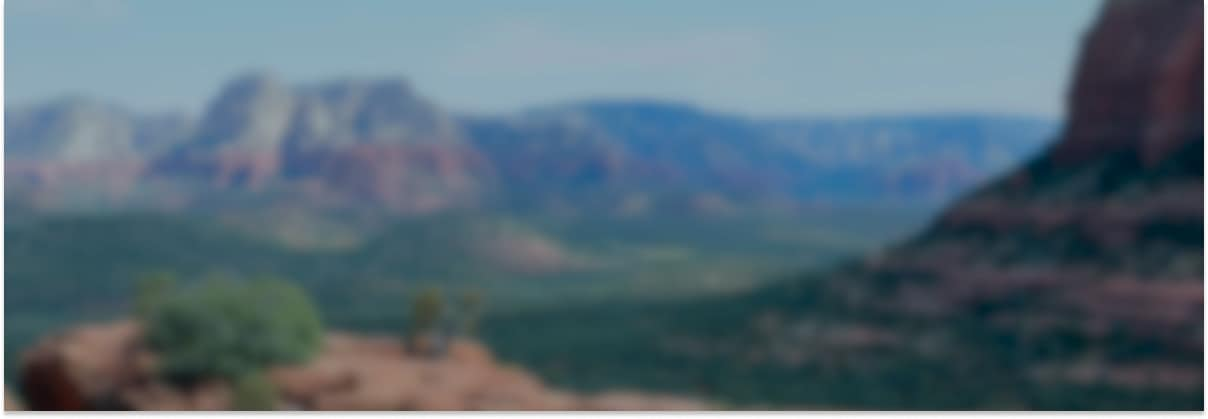
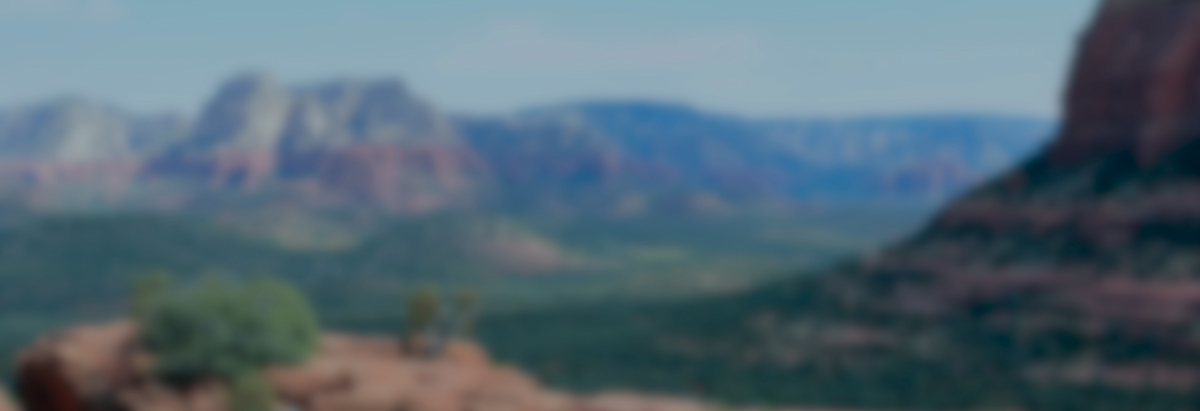
Декоративные элементы на главной странице
* Оформите декоративные элементы. * Должны быть выполнены следующие требования: * все размеры, отступы и расположение элементов выполнены по макету; * подключены все шрифты, указанные в макете и техническом задании; * размеры и начертание текста соответствуют макету и техническому заданию; * подключены все изображения, размеры и расположение по макету; * свёрстаны состояния элементов из стайлгайда. * При работе с изображениями стоит руководствоваться следующим правилом: * если изображение является контентным, то такое изображение должно быть добавлено с помощью тега img с заполненным атрибутом alt; * если изображение является декоративным, то такое изображение должно быть добавлено с помощью свойства background-image.

diff --git a/index.html b/index.html
@@ -13,7 +13,7 @@
           </a>
           <ul class="navigation-list">
             <li class="navigation-item">
-              <a class="navigation-link navigation-link-current">Главная</a>
+              <a class="navigation-link-current">Главная</a>
             </li>
             <li class="navigation-item">
               <a class="navigation-link" href="#">О Седоне</a>
@@ -25,11 +25,13 @@
           <ul class="navigation-list navigation-user">
             <li class="navigation-item">
               <a class="navigation-link" href="#">
+                <svg class="navigation-icon" aria-hidden="true" focusable="false" width="19" height="19" xmlns="http://www.w3.org/2000/svg"><path d="m18.5 17-3.7-3.67c1-1.3 1.7-2.98 1.7-4.87A8 8 0 0 0 8.5.5C4.1.5.5 4.18.5 8.56a8 8 0 0 0 12.9 6.26l3.7 3.68 1.4-1.5Zm-10-2.48a6 6 0 0 1-6-5.96 6 6 0 0 1 12 0 6 6 0 0 1-6 5.96Z"/></svg>
                 <span class="visually-hidden">Поиск</span>
               </a>
             </li>
             <li class="navigation-item">
               <a class="navigation-link" href="#">
+                <svg class="navigation-icon" aria-hidden="true" focusable="false" width="18" height="17" xmlns="http://www.w3.org/2000/svg"><path d="M8.9 17a.9.9 0 0 1-.8-.4c-5.4-6.1-6.7-7.5-7-7.9A5.4 5.4 0 0 1 5.5 0C6.8 0 8 .5 9 1.3a5.46 5.46 0 0 1 9 4.1c0 1.3-.5 2.5-1.3 3.4l-7 7.9c-.2.2-.4.3-.8.3Zm-6-9.5c.3.4 3.5 4 6.1 6.9l6.2-7c.5-.5.7-1.2.7-2 0-1.8-1.5-3.3-3.3-3.3-1 0-2 .5-2.7 1.3-.3.3-.6.4-.9.4-.3 0-.6-.2-.8-.4-.7-.8-1.7-1.3-2.7-1.3-1.8 0-3.3 1.5-3.3 3.3-.1.9.3 1.6.7 2.1-.1 0-.1 0 0 0Z"/></svg>
                 <span class="visually-hidden">Избранное</span>
               </a>
             </li>
@@ -50,41 +52,46 @@
             <li class="advantage-item-large">
               <div class="advantage-item-wrapper">
                 <h3 class="advantages-title">Настоящий городок</h3>
+                <span class="advantages-counter">— №1 —</span>
                 <p class="advantages-text">Седона — не аттракцион для туристов, там течёт своя жизнь</p>
               </div>
                 <img class="advantages-img" src="img/photo1.jpg" width="800" height="384" alt="Фото магазинов в Седоне">
               <ul class="advantage-list-inner">
-                <li class="advantage-item">
+                <li class="advantage-item-inner">
                   <h4 class="advantages-title">Жильё</h4>
-                  <p class="advantages-text">Рекомендуем пожить в настоящем мотеле, всё как в кино!</p>
+                  <p class="advantages-text">Рекомендуем пожить<br>в настоящем мотеле,<br>всё как в кино!</p>
                 </li class="advantage-item">
-                <li class="advantage-item">
+                <li class="advantage-item-inner">
                   <h4 class="advantages-title">Еда</h4>
-                  <p class="advantages-text">Всегда заказывайте топовый фирменный бургер, вы не разочаруетесь!</p>
+                  <p class="advantages-text">Всегда заказывайте<br>топовый фирменный бургер,<br>вы не разочаруетесь!</p>
                 </li>
-                <li class="advantage-item">
+                <li class="advantage-item-inner">
                   <h4 class="advantages-title">Сувениры</h4>
-                  <p class="advantages-text">Не только китайского, но и настоящего местного производства!</p>
+                  <p class="advantages-text">Не только китайского,<br>но и настоящего местного<br>производства!</p>
                 </li>
               </ul>
             </li>
             <li class="advantage-item-large">
               <img  class="advantages-img" src="img/photo2.jpg" width="800" height="384" alt="Мост дьявола">
               <div class="advantage-item-wrapper">
-                <h3 class="advantages-title">Там есть мост дьявола</h3>
+                <h3 class="advantages-title">Там есть <br> мост дьявола</h3>
+                <span class="advantages-counter">— №2 —</span>
                 <p class="advantages-text">Да, по нему можно пройти! Если вы осмелитесь, разумеется</p>
               </div>
             </li>
             <li class="advantage-item">
               <h3 class="advantages-title">Небольшая площадь</h3>
+              <span class="advantages-counter">— №3 —</span>
               <p class="advantages-text">Все достопримечательности находятся очень близко</p>
             </li>
             <li class="advantage-item">
-              <h3 class="advantages-title">Красивая дорога</h3>
+              <h3 class="advantages-title">Красивая<br>дорога</h3>
+              <span class="advantages-counter">— №4 —</span>
               <p class="advantages-text">Ехать в Седону из Лас-Вегаса совсем не скучно!</p>
             </li>
             <li class="advantage-item">
-              <h3 class="advantages-title">Мало туристов</h3>
+              <h3 class="advantages-title">Мало<br>туристов</h3>
+              <span class="advantages-counter">— №5 —</span>
               <p class="advantages-text">Большинство едет в Гранд Каньон и толпится там</p>
             </li>
           </ol>
@@ -111,22 +118,27 @@
           <ul class="social-list">
             <li class="social-item">
               <a class="social-link" href="https://twitter.com/htmlacademy_ru">
+                <svg class="social-icon" aria-hidden="true" focusable="false" width="18" height="15" fill="none" xmlns="http://www.w3.org/2000/svg"><path d="M11.6.2c1.8-.5 3.2.3 3.8 1.2.7-.2 1.4-.5 2.1-.7 0 .9-.6 1.5-.9 1.8.7.1 1.4-.6 1.4-.6-.2 1-1.1 1.8-1.7 2C16.1 10.7 13 15.1 5.7 15h-.5c-.4 0-4.4-.5-5.2-1.9 2.4.2 4.1-.4 5-1.2-1-.3-2.9-.4-3.2-2.9.4.1.6.2 1.3.1C1.8 8.3.4 7.5.5 5.3c.3.3 1.1.5 1.4.5C1.1 5.6-.2 2.5.9.9c1.9 1.9 4 3.6 7.6 3.8C8.7 2.3 9.7.8 11.6.2Z" fill="#83B3D3"/></svg>
                 <span class="visually-hidden">Twitter</span>
               </a>
             </li>
             <li class="social-item">
               <a class="social-link" href="https://www.facebook.com/htmlacademy">
+                <svg class="social-icon" aria-hidden="true" focusable="false" width="10" height="18" fill="none" xmlns="http://www.w3.org/2000/svg"><path d="M7 0C4.8 0 3 1.8 3 4v2H0v4h3v8h4v-8h3V6H7V4h3V0H7Z" fill="#83B3D3"/></svg>
                 <span class="visually-hidden">Facebook</span>
               </a>
             </li>
             <li class="social-item">
               <a class="social-link" href="https://www.youtube.com/c/HTMLAcademyRUS">
+                <svg class="social-icon icon" aria-hidden="true" focusable="false" width="22" height="16" fill="none" xmlns="http://www.w3.org/2000/svg"><path fill-rule="evenodd" clip-rule="evenodd" d="M17.81.42c.86.23 1.54.9 1.77 1.77C20 3.75 20 7 20 7s0 3.26-.42 4.81a2.5 2.5 0 0 1-1.77 1.77C16.25 14 10 14 10 14s-6.25 0-7.81-.42a2.5 2.5 0 0 1-1.77-1.77C0 10.26 0 7 0 7s0-3.25.42-4.81A2.5 2.5 0 0 1 2.19.42C3.75 0 10 0 10 0s6.25 0 7.81.42ZM13.2 7 8 10V4l5.2 3Z" fill="#83B3D3"/></svg>
                 <span class="visually-hidden">Youtube</span>
               </a>
             </li>
           </ul>
           <p class="footer-contact"><a class="footer-contacts-phone" href="tel:+78128121212">+7 (812) 812-12-12</a></p>
-          <a class="htmlacademy-link" href="https://htmlacademy.ru/"><img src="img/htmlacademy.svg" width="115" height="34" alt="Разработано HTML Academy"></a>
+          <a class="htmlacademy-link" href="https://htmlacademy.ru/">
+            <svg aria-hidden="true" focusable="false" width="115" height="33" xmlns="http://www.w3.org/2000/svg"><g clip-path="url(#a)"><path fill-rule="evenodd" clip-rule="evenodd" d="M8 6.2c.8-1 2-1.7 3.6-1.7 2.7 0 4.6 1.9 4.5 4.9v6.1h-2V9.8c0-1.8-1.1-3.2-2.9-3.2-2 0-3.3 1.5-3.3 3.6v5.3h-2V0h2v6.2H8Zm-8 9.3v-2.6h2.5v2.6H0ZM26.6 4.8h-4.8V1.1h-2v3.8h-1.9v2h1.9v6c0 1.7 1 2.7 2.7 2.7h4.1v-2h-3.7c-.7 0-1.1-.4-1.1-1.1V6.8h4.8v-2Zm11 1.9c.6-1.3 1.9-2.1 3.5-2.1 2.5 0 4 1.8 3.9 4.3v6.5h-2V9.1c0-1.6-.9-2.6-2.4-2.6-1.2 0-2.6.9-2.6 3.3v5.6h-2V9.1c0-1.6-.9-2.6-2.4-2.6C32 6.5 31 8 31 10v5.4h-2V4.8h1.9v1.6h.1c.6-1 1.7-1.8 3.1-1.8 1.6 0 2.8.9 3.4 2.1h.1Zm10.2 6c0 1.7 1 2.7 2.8 2.7h2v-2h-1.7c-.7 0-1.1-.4-1.1-1.1V0h-2v12.7ZM25 17.9c1.7 0 3 .7 3.9 1.8v-1.5h2v10.6h-2v-1.6h-.1c-.8 1.1-2 1.9-3.8 1.9-3.1 0-5.4-2.3-5.4-5.6s2.3-5.6 5.4-5.6Zm-3.3 5.6c0 2 1.4 3.6 3.6 3.6s3.6-1.7 3.6-3.6c0-2-1.4-3.6-3.6-3.6s-3.6 1.6-3.6 3.6ZM44.2 22c-.5-2.4-2.6-4.1-5.4-4.1a5.4 5.4 0 0 0-5.6 5.6c0 3.1 2.2 5.6 5.6 5.6 2.8 0 4.9-1.8 5.4-4.2h-2.1a3.4 3.4 0 0 1-3.3 2.3c-2.2 0-3.6-1.6-3.6-3.6s1.4-3.6 3.6-3.6c1.6 0 2.8 1 3.3 2.2h2.1V22Zm7-4.1c1.7 0 3 .7 3.9 1.8v-1.5h2v10.6h-2v-1.6H55c-.8 1.1-2 1.9-3.8 1.9-3.1 0-5.4-2.3-5.4-5.6s2.3-5.6 5.4-5.6Zm-3.3 5.6c0 2 1.4 3.6 3.6 3.6 2.1 0 3.6-1.7 3.6-3.6 0-2-1.4-3.6-3.6-3.6s-3.6 1.6-3.6 3.6Zm20.8-3.7c-.9-1.1-2.2-1.9-3.9-1.9-3.1 0-5.4 2.3-5.4 5.6s2.2 5.6 5.4 5.6c1.7 0 3-.8 3.8-1.8h.1v1.5h2V13.4h-2v6.4Zm-3.6 7.3c-2.2 0-3.6-1.6-3.6-3.6s1.4-3.6 3.6-3.6 3.6 1.6 3.6 3.6c-.1 2-1.5 3.6-3.6 3.6Zm7.7-3.6c0-3.1 2.2-5.6 5.5-5.6 3.5 0 5.7 2.7 5.5 6.3H75c.1 1.6 1.5 2.9 3.4 2.9 1.4 0 2.5-.6 3-1.6h2.1c-.7 2.3-2.7 3.6-5.2 3.6-3.4 0-5.5-2.6-5.5-5.6Zm8.8-1.1c-.3-1.6-1.6-2.6-3.3-2.6-1.7 0-2.9 1.1-3.2 2.6h6.5Zm16.6-4.5c-1.6 0-2.9.8-3.6 2h-.1c-.6-1.2-1.8-2-3.4-2-1.4 0-2.5.7-3.1 1.8v-1.5h-1.9v10.6h2v-5.4c0-2 1-3.4 2.6-3.5 1.5 0 2.4 1 2.4 2.6v6.3h2v-5.6c0-2.4 1.4-3.3 2.6-3.3 1.5 0 2.4 1 2.4 2.6v6.3h2v-6.5c.1-2.6-1.4-4.4-3.9-4.4Zm7.6.2 3.6 8.9 3.4-8.9h2.1l-4.7 12.2c-.7 1.8-1.7 2.6-3.5 2.6h-2.5v-2h2.5c1 0 1.4-.3 1.7-1.2l-4.8-11.6h2.2Z"/></g><defs><clipPath id="a"><path fill="#fff" d="M0 0h114.9v32.9H0z"/></clipPath></defs></svg>
+          </a>
         </section>
     </footer>
   </body>

diff --git a/style.css b/style.css
@@ -58,6 +58,9 @@ body {
   text-decoration: none;
   border:none;
 }
+input[type="button"]{
+  cursor: pointer;
+}
 /* Общие стили для заголовков и описаний */
 .section-title {
   font-size: 30px;
@@ -86,8 +89,8 @@ body {
   margin: 0;
   padding: 0;
   list-style: none;
-  display: flex;
-  flex-wrap: wrap;
+  display:grid;
+  grid-template-columns: repeat(3, max-content);
   align-items: center;
 }
 .navigation-link {
@@ -108,6 +111,24 @@ body {
   min-width: 42px;
   padding: 0;
 }
+.navigation-user .navigation-item:last-child {
+  margin-left: 20px;
+}
+.navigation-item {
+  position: relative;
+}
+.page-header {
+  margin: 0 70px;
+}
+.navigation-icon,
+.social-icon {
+  position: absolute;
+  top: 0;
+  right: 0;
+  bottom: 0;
+  left: 0;
+  margin: auto;
+}
 .navigation-logo {
   width: 139px;
   position: relative;
@@ -116,14 +137,7 @@ body {
 }
 .navigation-btn {
   display: block;
-  padding: 9px 32px;
-  margin-left: 20px;
-}
-.page-header {
-  margin: 0 70px;
-}
-.navigation-item {
-  outline: 1px solid red;
+  padding: 9px 34px;
 }
 
 /* Преимущества */
@@ -147,6 +161,7 @@ body {
   text-align: center;
   text-transform: uppercase;
   color: #000000;
+  margin: 0;
 }
 .advantage-item-large {
   grid-column: 1/-1;
@@ -156,7 +171,10 @@ body {
 .advantage-item-wrapper {
   color:#FFFFFF;
   background-color: #83B3D3;
-  padding: 60px;
+  display:grid;
+  gap: 30px;
+  padding: 98px 90px 87px;
+  justify-items: center;
 }
 .advantage-list {
   margin: 0;
@@ -165,9 +183,6 @@ body {
   display: grid;
   grid-template-columns: repeat(3, 400px);
 }
-.advantage-item {
-  padding: 60px;
-}
 .advantage-list-inner {
   margin: 0;
   padding: 0;
@@ -175,22 +190,31 @@ body {
   display: grid;
   grid-template-columns: repeat(3, 400px);
 }
+.advantage-item-inner {
+  display:grid;
+  gap: 20px;
+  padding: 184px 75px 87px;
+}
+.advantage-item {
+  display:grid;
+  gap: 30px;
+  padding: 98px 80px 104px;
+  justify-items: center;
+}
 .advantages-text {
   font-size: 18px;
   line-height: 21px;
   text-align: center;
+  margin: 0;
 }
 .advantage-item-wrapper > .advantages-title {
   color:white;
 }
-.advantage-item-large .advantage-list-inner{
-  color:#333333;
-  background: #FFFFFF;
-}
-.advantage-item:not(.advantage-item-large):nth-child(odd){
+.advantage-item:nth-child(odd),
+.advantage-item-inner:nth-child(odd){
   background: rgba(131, 179, 211, 0.12);
 }
-.advantage-list > .advantage-item:nth-last-child(2){
+.advantage-item:nth-last-child(2){
   background: rgba(131, 179, 211, 0.2);
 }
 .advantages-text {
@@ -204,6 +228,21 @@ body {
 .advantages {
   background: url(img/indexbackground.jpg) top no-repeat;
 }
+.advantage-item-inner:first-child{
+  background-image: url('img/icon/house.svg');
+  background-repeat: no-repeat;
+  background-position: left 163px top 89px;
+}
+.advantage-item-inner:nth-child(2){
+  background-image: url('img/icon/burger.svg');
+  background-repeat: no-repeat;
+  background-position: left 163px top 91px;
+}
+.advantage-item-inner:nth-child(3){
+  background-image: url('img/icon/gift.svg');
+  background-repeat: no-repeat;
+  background-position: left 168px top 85px;
+}
 /* Бронирование */
 .search-button.btn-brown{
   font-size: 20px;
@@ -211,7 +250,9 @@ body {
   display: block;
   margin: 0 auto;
   width: 575px;
-  padding: 15px 0;
+  padding-top: 14px;
+  padding-bottom: 10px;
+  border-radius: 10px;
 }
 .booking {
   padding: 92px 0;
@@ -235,9 +276,12 @@ body {
   padding-bottom: 141px;
 }
 .subscribe-main {
-  background: url(img/backgroundfooter.jpg) no-repeat;
+  background-image: url(img/backgroundfooter.jpg);
+  background-repeat:no-repeat;
+  background-position:center;
+  background-size: cover;
   color: #ffffff;
-  padding: 94px 0;
+  padding: 94px;
 }
 .subscribe-main .section-title {
   color: #ffffff;
@@ -260,15 +304,17 @@ body {
   line-height: 26px;
   border-radius: 0px 10px 10px 0px;
   width: 200px;
-  padding: 0;
+  padding: 16px 0;
+  font-stretch: condensed;
 }
 /* Контакты */
 .footer-contacts {
   display: grid;
   grid-template-columns: max-content 1fr max-content;
-  padding: 40px 72px;
+  padding: 32px 62px;
   gap: 60px;
   justify-items: center;
+  align-items:center;
 }
 .social-list {
   margin: 0;
@@ -280,8 +326,11 @@ body {
 }
 .social-item {
   min-height: 18px;
-  min-width: 20px;
-  outline: 1px solid red;
+  min-width: 42px;
+  position: relative;
+}
+.social-item:last-child {
+  margin-right: 0;
 }
 .footer-contact {
   margin: 0;
@@ -294,9 +343,12 @@ body {
   text-transform: uppercase;
   color: #000000;
   font-style: normal;
+  padding: 15px;
 }
 .htmlacademy-link {
   display: block;
+  box-sizing: border-box;
+  padding: 10px;
 }
 
 /* catalog
@@ -575,4 +627,43 @@ input[type="number"] {
   clip: rect(0 0 0 0);
   overflow: hidden;
 }
+/* состояния элементов из стайлгайда */
+.footer-contacts-phone:focus,
+.htmlacademy-link:focus {
+  outline: 3px solid #83B3D3;
+  border-radius: 10px;
+  color: #756257;
+}
+.navigation-link:hover,
+.htmlacademy-link:hover,
+.footer-contacts-phone:hover {
+  fill:#756257;
+  color: #756257;
+  outline: none;
+}
 
+.navigation-link:active,
+.htmlacademy-link:active,
+.footer-contacts-phone:active  {
+  fill: #756257;
+  opacity: 0.3;
+  color: rgba(117, 98, 87);
+  outline: none;
+}
+
+.navigation-link-current {
+  font-weight: 700;
+  font-size: 20px;
+  line-height: 26px;
+  color: #000000;
+  padding: 20px 17px;
+}
+.navigation-link-current::before {
+  content: '';
+  background-color:#756257;
+  position: absolute;
+  right: 16px;
+  top: 45px;
+  left: 17px;
+  height: 2px;
+}

diff --git a/catalog.html b/catalog.html
@@ -20,17 +20,19 @@
             <a class="navigation-link" href="#">О Седоне</a>
           </li>
           <li class="navigation-item">
-            <a class="navigation-link navigation-link-current">Гостиницы</a>
+            <a class="navigation-link-current">Гостиницы</a>
           </li>
         </ul>
         <ul class="navigation-list navigation-user">
           <li class="navigation-item">
             <a class="navigation-link" href="#">
+              <svg class="navigation-icon" aria-hidden="true" focusable="false" width="19" height="19" xmlns="http://www.w3.org/2000/svg"><path d="m18.5 17-3.7-3.67c1-1.3 1.7-2.98 1.7-4.87A8 8 0 0 0 8.5.5C4.1.5.5 4.18.5 8.56a8 8 0 0 0 12.9 6.26l3.7 3.68 1.4-1.5Zm-10-2.48a6 6 0 0 1-6-5.96 6 6 0 0 1 12 0 6 6 0 0 1-6 5.96Z"/></svg>
               <span class="visually-hidden">Поиск</span>
             </a>
           </li>
           <li class="navigation-item">
             <a class="navigation-link" href="#">
+              <svg class="navigation-icon" aria-hidden="true" focusable="false" width="18" height="17" xmlns="http://www.w3.org/2000/svg"><path d="M8.9 17a.9.9 0 0 1-.8-.4c-5.4-6.1-6.7-7.5-7-7.9A5.4 5.4 0 0 1 5.5 0C6.8 0 8 .5 9 1.3a5.46 5.46 0 0 1 9 4.1c0 1.3-.5 2.5-1.3 3.4l-7 7.9c-.2.2-.4.3-.8.3Zm-6-9.5c.3.4 3.5 4 6.1 6.9l6.2-7c.5-.5.7-1.2.7-2 0-1.8-1.5-3.3-3.3-3.3-1 0-2 .5-2.7 1.3-.3.3-.6.4-.9.4-.3 0-.6-.2-.8-.4-.7-.8-1.7-1.3-2.7-1.3-1.8 0-3.3 1.5-3.3 3.3-.1.9.3 1.6.7 2.1-.1 0-.1 0 0 0Z"/></svg>
               <span class="visually-hidden">Избранное</span>
             </a>
           </li>
